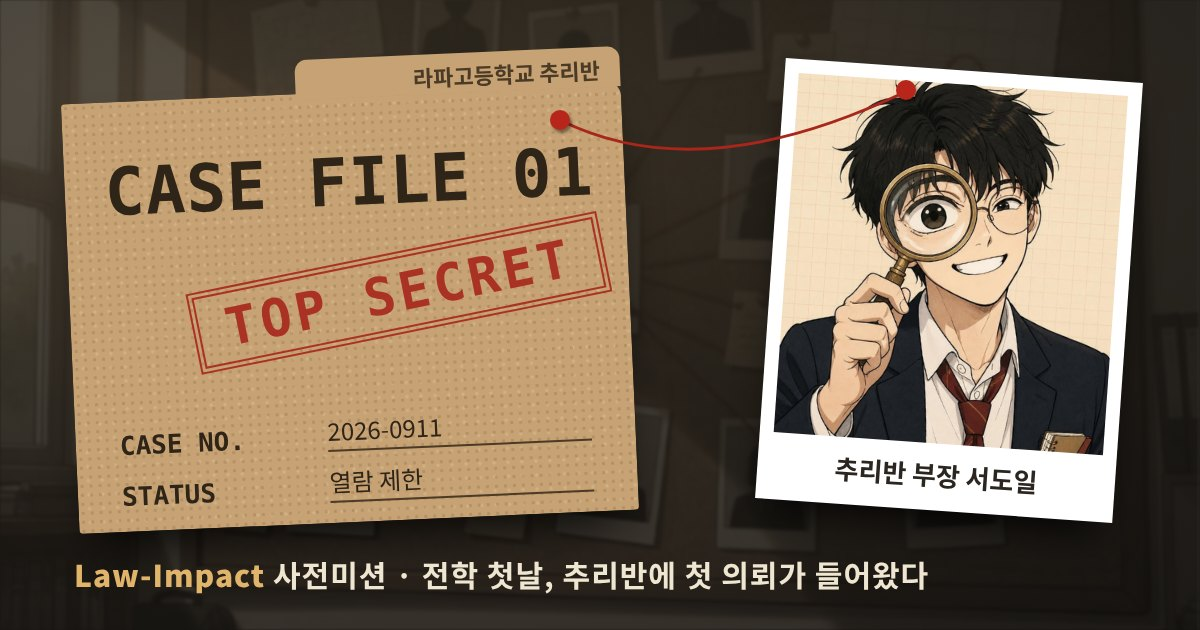
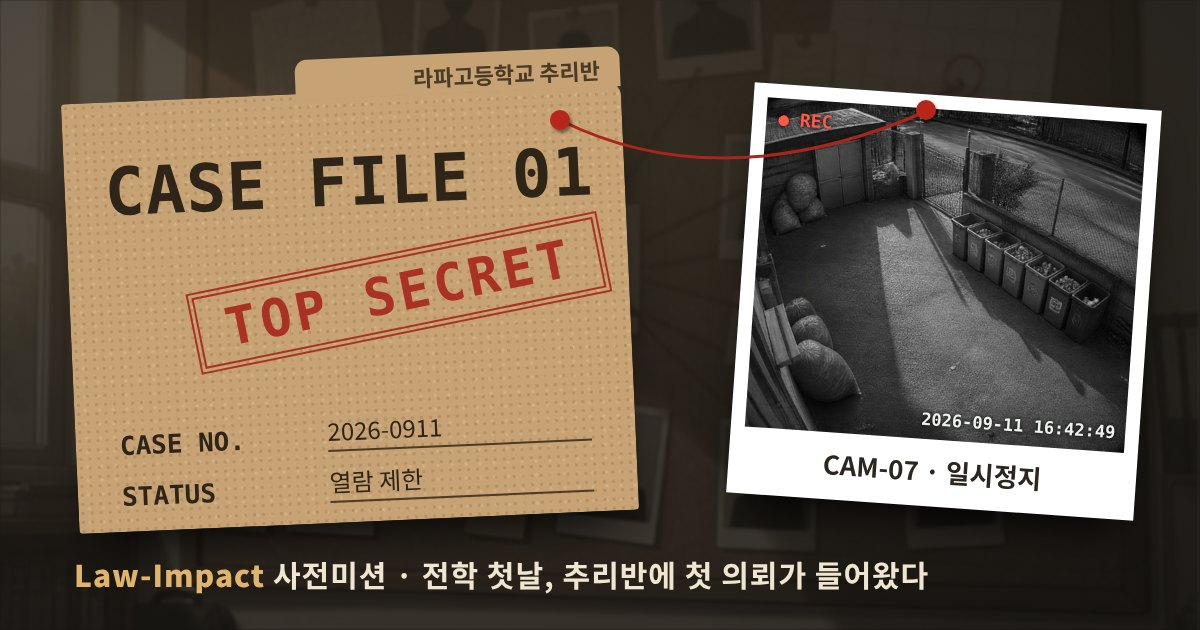
미리보기 이미지에서 인물 빼고 CCTV 정지 화면으로
Claude-Session: https://claude.ai/code/session_01NaDGiTAQX8MSvh6Ty1HZeA

Changed region(s): [[0.4933, 0.0905, 0.9867, 0.8444]]

diff --git a/index.html b/index.html
@@ -103,7 +103,7 @@ var LZString=function(){var r=String.fromCharCode,o="ABCDEFGHIJKLMNOPQRSTUVWXYZa
 <meta property="og:type" content="website">
 <meta name="theme-color" content="#1e1b16">
 <meta property="og:url" content="https://bminji21-lab.github.io/casefile01/">
-<meta property="og:image" content="https://bminji21-lab.github.io/casefile01/og.jpg">
+<meta property="og:image" content="https://bminji21-lab.github.io/casefile01/og.jpg?v=2">
 <meta property="og:image:width" content="1200">
 <meta property="og:image:height" content="630">
 <meta name="twitter:card" content="summary_large_image">
